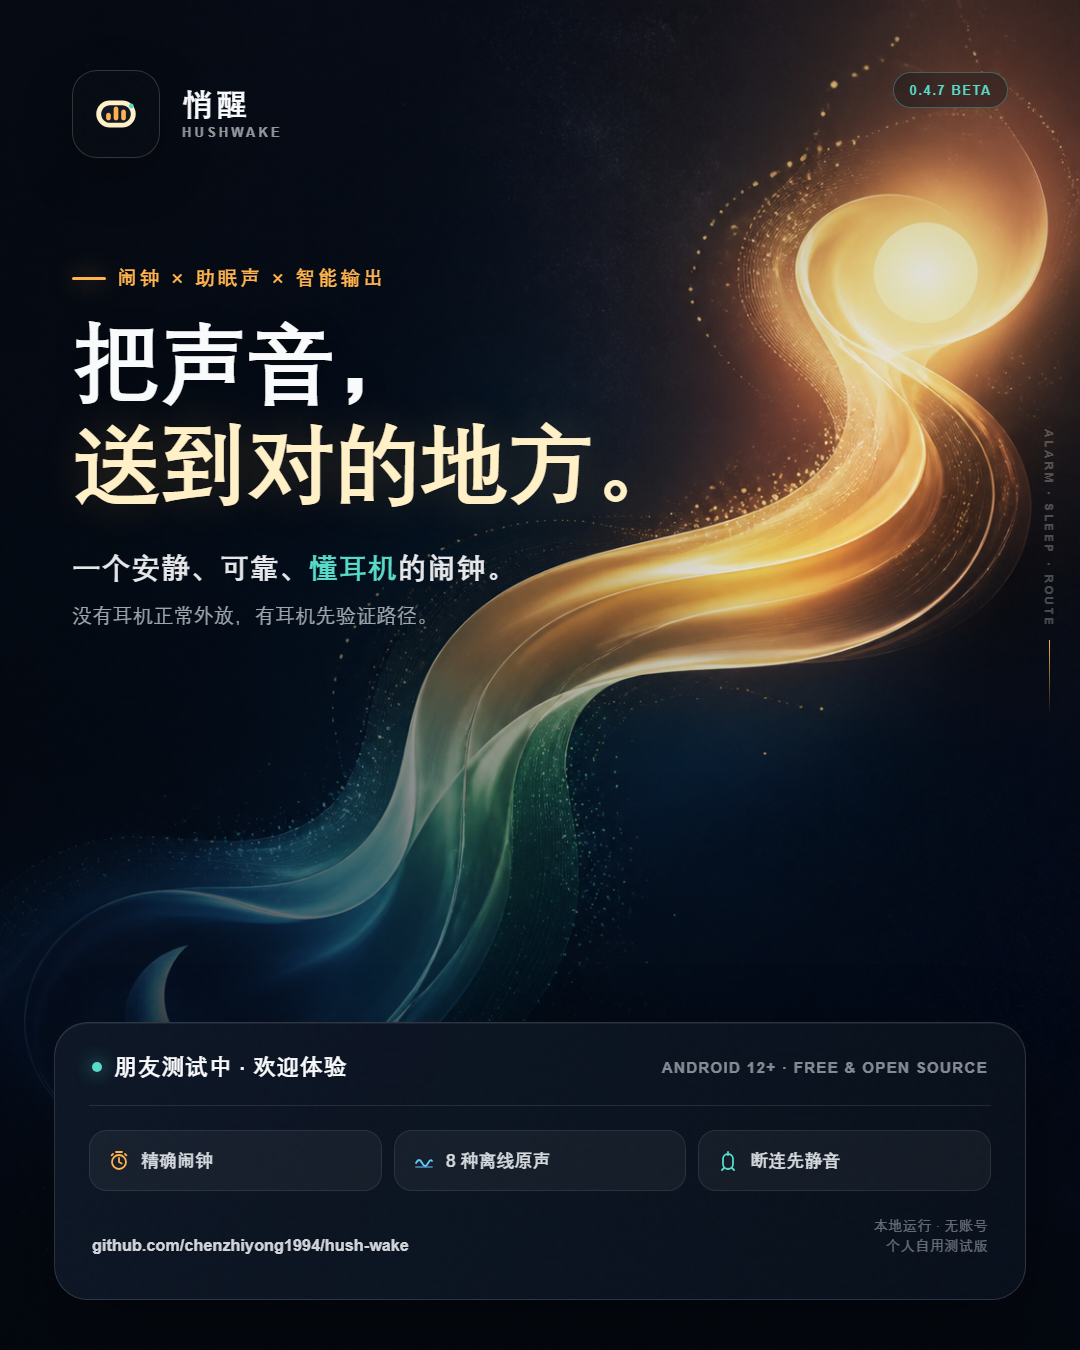
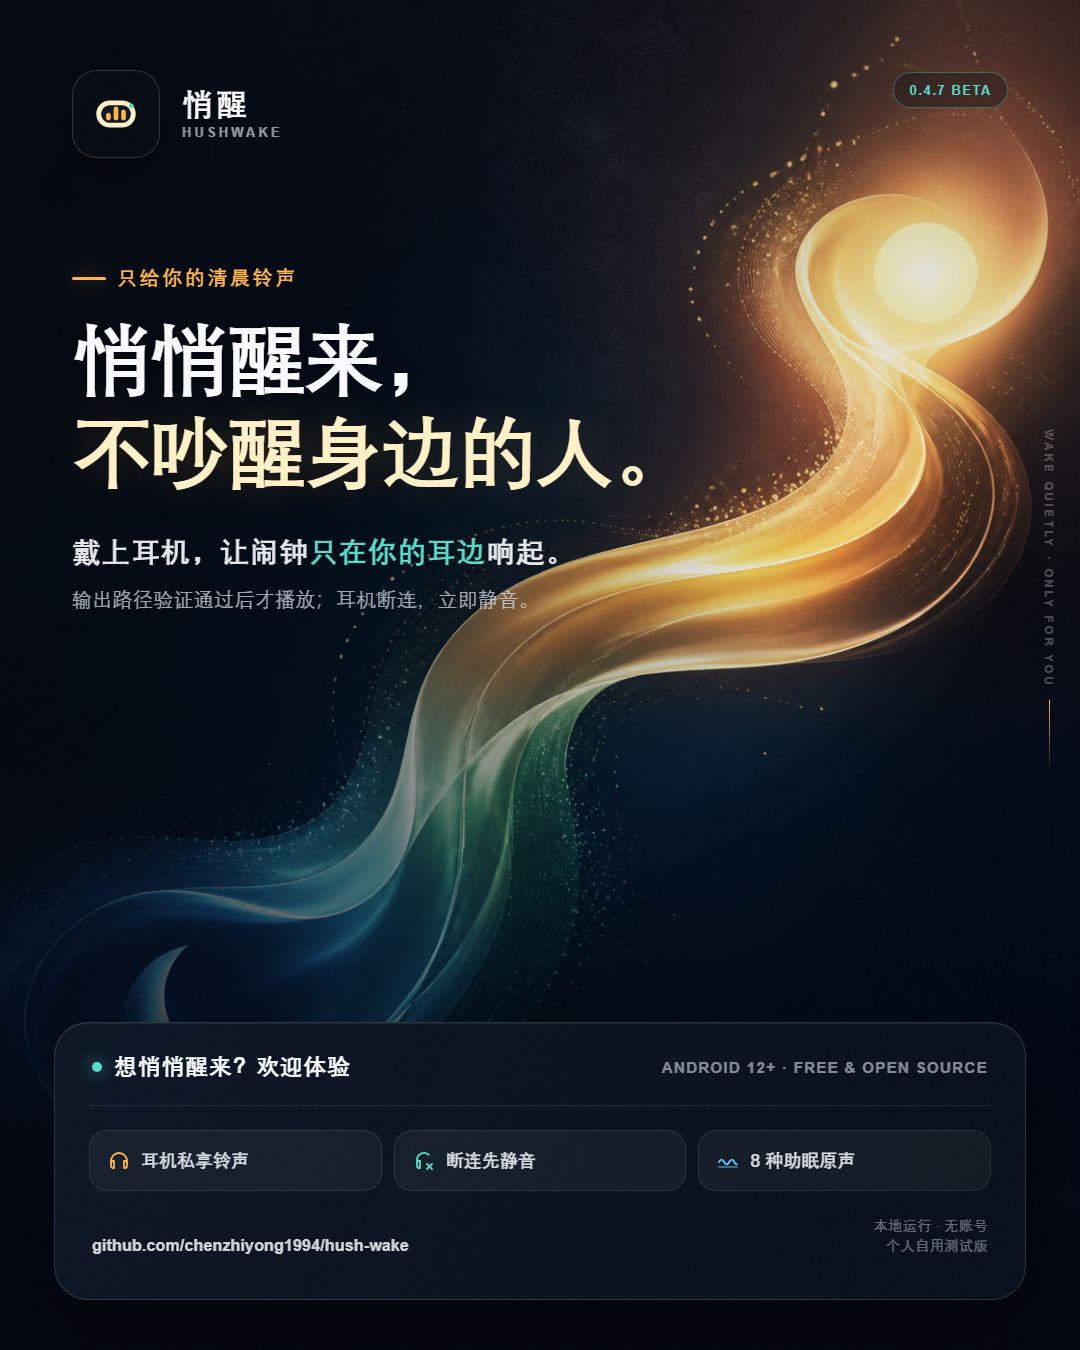
assets: retheme promo around quiet waking

diff --git a/docs/assets/social/hushwake-moments-poster-v1.html b/docs/assets/social/hushwake-moments-poster-v1.html
@@ -123,7 +123,7 @@
       position: absolute;
       top: 267px;
       left: 72px;
-      width: 760px;
+      width: 840px;
     }
 
     .eyebrow {
@@ -148,8 +148,8 @@
 
     h1 {
       margin: 0;
-      font-size: 90px;
-      line-height: 1.12;
+      font-size: 80px;
+      line-height: 1.16;
       font-weight: 700;
       letter-spacing: -.035em;
       text-shadow: 0 4px 26px rgba(0, 0, 0, .32);
@@ -254,8 +254,8 @@
     }
 
     .feature svg { flex: 0 0 auto; color: var(--amber); }
-    .feature:nth-child(2) svg { color: #63c8ff; }
-    .feature:nth-child(3) svg { color: var(--mint); }
+    .feature:nth-child(2) svg { color: var(--mint); }
+    .feature:nth-child(3) svg { color: #63c8ff; }
 
     .footer {
       display: flex;
@@ -328,32 +328,32 @@
     </header>
 
     <section class="hero-copy">
-      <div class="eyebrow">闹钟 × 助眠声 × 智能输出</div>
-      <h1>把声音，<br><span class="accent">送到对的地方。</span></h1>
-      <div class="subhead">一个安静、可靠、<strong>懂耳机</strong>的闹钟。</div>
-      <div class="route-note">没有耳机正常外放，有耳机先验证路径。</div>
+      <div class="eyebrow">只给你的清晨铃声</div>
+      <h1>悄悄醒来，<br><span class="accent">不吵醒身边的人。</span></h1>
+      <div class="subhead">戴上耳机，让闹钟<strong>只在你的耳边</strong>响起。</div>
+      <div class="route-note">输出路径验证通过后才播放；耳机断连，立即静音。</div>
     </section>
 
-    <div class="rail">ALARM · SLEEP · ROUTE</div>
+    <div class="rail">WAKE QUIETLY · ONLY FOR YOU</div>
 
     <section class="bottom-card">
       <div class="card-top">
-        <div class="invite"><span class="invite-dot"></span>朋友测试中 · 欢迎体验</div>
+        <div class="invite"><span class="invite-dot"></span>想悄悄醒来？欢迎体验</div>
         <div class="platform">ANDROID 12+ · FREE &amp; OPEN SOURCE</div>
       </div>
 
       <div class="features">
         <div class="feature">
-          <svg width="24" height="24" viewBox="0 0 24 24" fill="none" aria-hidden="true"><circle cx="12" cy="13" r="7" stroke="currentColor" stroke-width="1.8"/><path d="M12 9v4l2.6 1.5M9 3h6M6 5 4.6 6.4M18 5l1.4 1.4" stroke="currentColor" stroke-width="1.8" stroke-linecap="round"/></svg>
-          精确闹钟
+          <svg width="24" height="24" viewBox="0 0 24 24" fill="none" aria-hidden="true"><path d="M4 14v-2a8 8 0 0 1 16 0v2" stroke="currentColor" stroke-width="1.8" stroke-linecap="round"/><path d="M4 14a2 2 0 0 1 2-2h1v7H6a2 2 0 0 1-2-2v-3ZM20 14a2 2 0 0 0-2-2h-1v7h1a2 2 0 0 0 2-2v-3Z" stroke="currentColor" stroke-width="1.8" stroke-linejoin="round"/></svg>
+          耳机私享铃声
         </div>
         <div class="feature">
-          <svg width="24" height="24" viewBox="0 0 24 24" fill="none" aria-hidden="true"><path d="M4 14c2.1-4 4.1-4 6.1 0s4.1 4 6.1 0 3.2-3 3.8-2" stroke="currentColor" stroke-width="1.8" stroke-linecap="round"/><path d="M4 18h16" stroke="currentColor" stroke-width="1.8" stroke-linecap="round" opacity=".5"/></svg>
-          8 种离线原声
-        </div>
-        <div class="feature">
-          <svg width="24" height="24" viewBox="0 0 24 24" fill="none" aria-hidden="true"><path d="M7 10a5 5 0 0 1 10 0v5a5 5 0 0 1-10 0v-5Z" stroke="currentColor" stroke-width="1.8"/><path d="M12 3v3M8 19l-2 2M16 19l2 2" stroke="currentColor" stroke-width="1.8" stroke-linecap="round"/></svg>
+          <svg width="24" height="24" viewBox="0 0 24 24" fill="none" aria-hidden="true"><path d="M5 14v-3a7 7 0 0 1 11.8-5.1M5 14v3a2 2 0 0 0 2 2h1v-7H7a2 2 0 0 0-2 2Z" stroke="currentColor" stroke-width="1.8" stroke-linecap="round" stroke-linejoin="round"/><path d="m15 15 5 5m0-5-5 5" stroke="currentColor" stroke-width="1.8" stroke-linecap="round"/></svg>
           断连先静音
+        </div>
+        <div class="feature">
+          <svg width="24" height="24" viewBox="0 0 24 24" fill="none" aria-hidden="true"><path d="M3 13c1.7-3.2 3.4-3.2 5.1 0s3.4 3.2 5.1 0 3.4-3.2 5.1 0c.9 1.7 1.8 2.5 2.7 2.4" stroke="currentColor" stroke-width="1.8" stroke-linecap="round"/><path d="M3 18h18" stroke="currentColor" stroke-width="1.8" stroke-linecap="round" opacity=".45"/></svg>
+          8 种助眠原声
         </div>
       </div>
 
